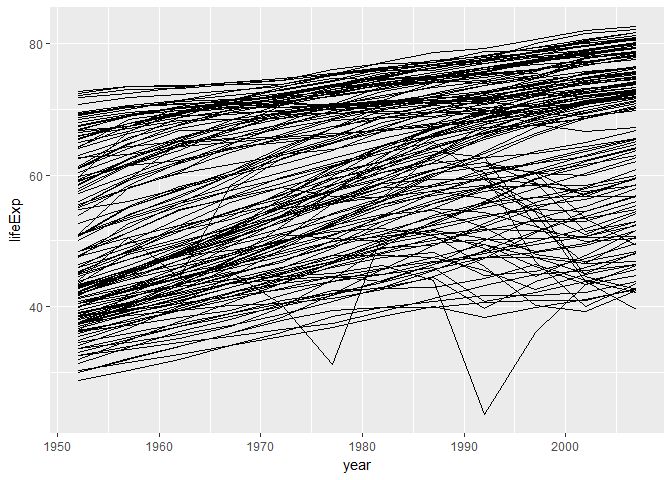
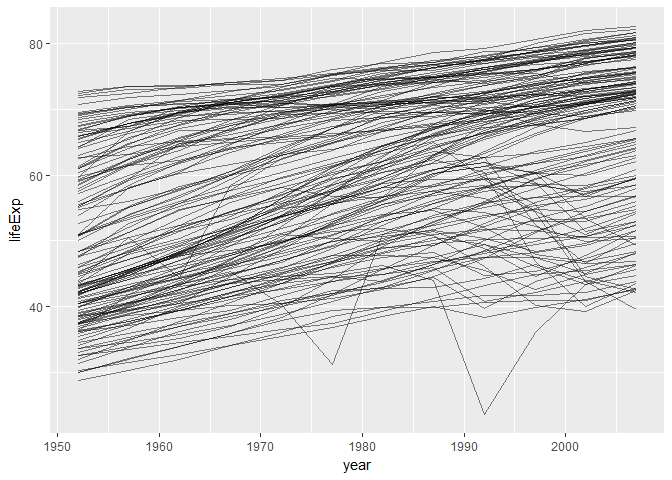
fix figs

Changed region(s): [[0.0938, 0.0625, 0.9688, 0.7812]]

diff --git a/cm006/cm006-exercise.md b/cm006/cm006-exercise.md
@@ -295,7 +295,7 @@ c + geom_line()
 
 ``` r
 ggplot(gapminder, aes(year, lifeExp)) +
-  geom_line(aes(group = country), )
+  geom_line(aes(group = country), alpha=0.5)
 ```
 
 ![](cm006-exercise_files/figure-markdown_github/unnamed-chunk-17-1.png)
@@ -311,11 +311,33 @@ Let's see how Rwanda's life expectancy and GDP per capita have evolved over time
 
 1.  Make a scatterplot. Store it in the variable `c`.
 
-2.  We want to connect the dots from earliest point to latest. What happens if we add the "line" geom to `c`?
+``` r
+c <- gapminder %>%
+  filter(country == "Rwanda") %>%
+  ggplot(aes(gdpPercap, lifeExp)) +
+  geom_point()
+c
+```
 
-3.  Add the appropriate geom to `c`. In that geom, specify a property of the geom: `arrow=arrow()`.
+![](cm006-exercise_files/figure-markdown_github/unnamed-chunk-18-1.png)
 
-4.  Optional: git stage and commit
+1.  We want to connect the dots from earliest point to latest. What happens if we add the "line" geom to `c`?
+
+``` r
+c + geom_line()
+```
+
+![](cm006-exercise_files/figure-markdown_github/unnamed-chunk-19-1.png)
+
+1.  Add the appropriate geom to `c`. In that geom, specify a property of the geom: `arrow=arrow()`.
+
+``` r
+c + geom_path(arrow=arrow())
+```
+
+![](cm006-exercise_files/figure-markdown_github/unnamed-chunk-20-1.png)
+
+1.  Optional: git stage and commit
 
 **Uses of path plots**: The four "corners" of the plot usually indicate different qualities. This plot allows you to see how Rwanda (or some entity) evolves over these qualities.
 
@@ -336,8 +358,26 @@ How many countries are in each continent? Use the year 2007.
 
 1.  After filtering the gapminder data to 2007, make a bar chart of the number of countries in each continent. Store everything except the geom in the variable `d`.
 
-2.  Notice the y-axis. Oddly, `ggplot2` doesn't make it obvious how to change to proportion. Try adding a `y` aesthetic: `y=..count../sum(..count..)`.
+``` r
+d <- gapminder %>%
+  filter(year == 2007) %>%
+  ggplot(aes(continent))
+d + geom_bar()
+```
 
-3.  Optional: git stage, commit, and push!
+![](cm006-exercise_files/figure-markdown_github/unnamed-chunk-21-1.png)
+
+1.  Notice the y-axis. Oddly, `ggplot2` doesn't make it obvious how to change to proportion. Try adding a `y` aesthetic: `y=..count../sum(..count..)`.
+
+``` r
+d <- gapminder %>%
+  filter(year == 2007) %>%
+  ggplot(aes(continent))
+d + geom_bar(aes(y = ..count../sum(..count..)))
+```
+
+![](cm006-exercise_files/figure-markdown_github/unnamed-chunk-22-1.png)
+
+1.  Optional: git stage, commit, and push!
 
 **Uses of bar plots**: Get a sense of relative quantities of categories, or see the probability mass function of a categorical random variable.
